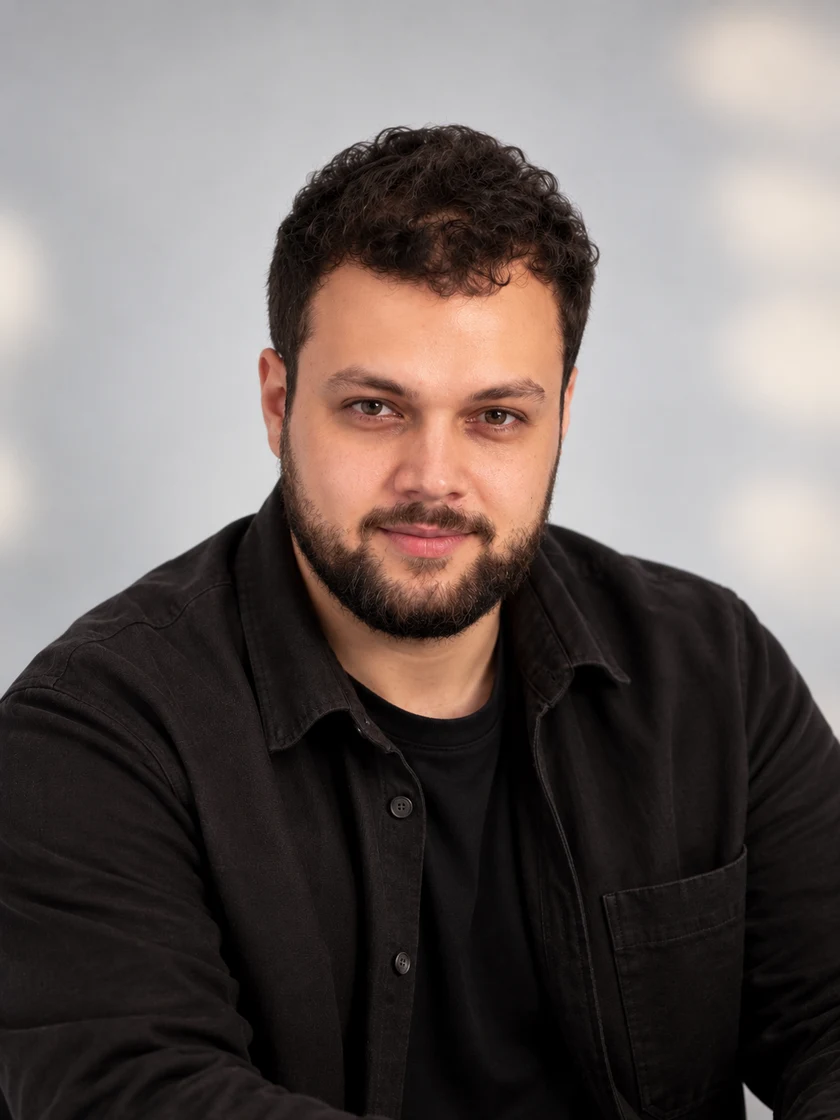
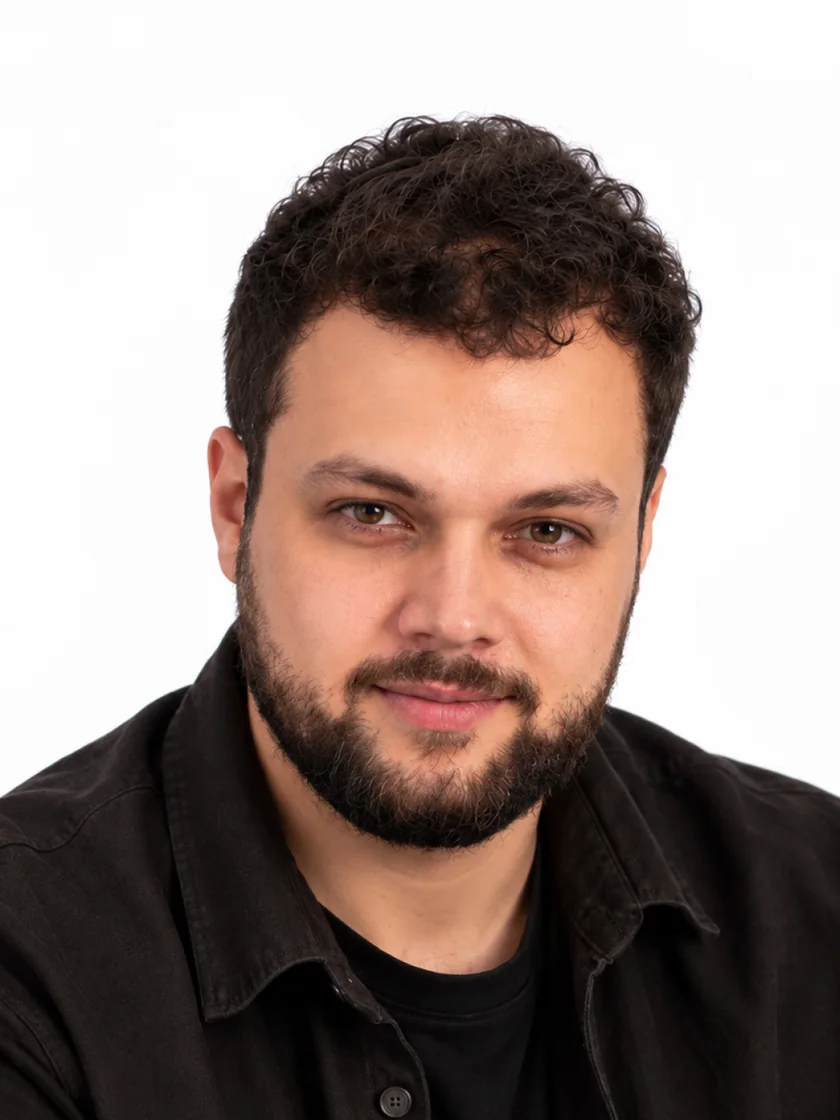
Команда: новые фото Андрея и Арсена, Андрей снова первый
Claude-Session: https://claude.ai/code/session_012G6QYp5oroZkUjnGBCFSdm

diff --git a/index.html b/index.html
@@ -192,9 +192,9 @@
     </div>
     <!-- Фото: 3:4, например 600×800, webp. Положите в assets/img/team/ и замените <span>А</span> на <img src="assets/img/team/anna.webp" width="600" height="800" alt="" loading="lazy">, а у блока уберите класс member__photo--empty -->
     <ul class="crew__track" id="crew-track">
-        <li class="member">
-          <div class="member__photo"><img src="assets/img/team/arsen.webp?v=3" width="840" height="1120" alt="Арсен" loading="lazy"></div>
-          <div class="member__body"><b>Арсен</b><p>Безопасность наших сайтов</p></div>
+        <li class="member member--lead">
+          <div class="member__photo"><img src="assets/img/team/andrei.webp?v=4" width="840" height="1120" alt="Андрей Стельмах" loading="lazy"></div>
+          <div class="member__body"><b>Андрей</b><p>Стратегия проектов и настройка рекламы</p><span class="member__tag">Ведёт ваш проект</span></div>
         </li>
         <li class="member">
           <div class="member__photo"><img src="assets/img/team/anna.webp" width="840" height="1120" alt="Анна" loading="lazy"></div>
@@ -208,9 +208,9 @@
           <div class="member__photo"><img src="assets/img/team/evgeniy.webp" width="840" height="1120" alt="Евгений" loading="lazy"></div>
           <div class="member__body"><b>Евгений</b><p>Посадочные страницы под рекламу и корпоративные сайты</p></div>
         </li>
-        <li class="member member--lead">
-          <div class="member__photo"><img src="assets/img/team/andrei.webp?v=3" width="840" height="1120" alt="Андрей Стельмах" loading="lazy"></div>
-          <div class="member__body"><b>Андрей</b><p>Стратегия проектов и настройка рекламы</p><span class="member__tag">Ведёт ваш проект</span></div>
+        <li class="member">
+          <div class="member__photo"><img src="assets/img/team/arsen.webp?v=4" width="840" height="1120" alt="Арсен" loading="lazy"></div>
+          <div class="member__body"><b>Арсен</b><p>Безопасность наших сайтов</p></div>
         </li>
         <li class="member">
           <div class="member__photo"><img src="assets/img/team/irina.webp" width="840" height="1120" alt="Ирина" loading="lazy"></div>

diff --git a/light.html b/light.html
@@ -192,9 +192,9 @@
     </div>
     <!-- Фото: 3:4, например 600×800, webp. Положите в assets/img/team/ и замените <span>А</span> на <img src="assets/img/team/anna.webp" width="600" height="800" alt="" loading="lazy">, а у блока уберите класс member__photo--empty -->
     <ul class="crew__track" id="crew-track">
-        <li class="member">
-          <div class="member__photo"><img src="assets/img/team/arsen.webp?v=3" width="840" height="1120" alt="Арсен" loading="lazy"></div>
-          <div class="member__body"><b>Арсен</b><p>Безопасность наших сайтов</p></div>
+        <li class="member member--lead">
+          <div class="member__photo"><img src="assets/img/team/andrei.webp?v=4" width="840" height="1120" alt="Андрей Стельмах" loading="lazy"></div>
+          <div class="member__body"><b>Андрей</b><p>Стратегия проектов и настройка рекламы</p><span class="member__tag">Ведёт ваш проект</span></div>
         </li>
         <li class="member">
           <div class="member__photo"><img src="assets/img/team/anna.webp" width="840" height="1120" alt="Анна" loading="lazy"></div>
@@ -208,9 +208,9 @@
           <div class="member__photo"><img src="assets/img/team/evgeniy.webp" width="840" height="1120" alt="Евгений" loading="lazy"></div>
           <div class="member__body"><b>Евгений</b><p>Посадочные страницы под рекламу и корпоративные сайты</p></div>
         </li>
-        <li class="member member--lead">
-          <div class="member__photo"><img src="assets/img/team/andrei.webp?v=3" width="840" height="1120" alt="Андрей Стельмах" loading="lazy"></div>
-          <div class="member__body"><b>Андрей</b><p>Стратегия проектов и настройка рекламы</p><span class="member__tag">Ведёт ваш проект</span></div>
+        <li class="member">
+          <div class="member__photo"><img src="assets/img/team/arsen.webp?v=4" width="840" height="1120" alt="Арсен" loading="lazy"></div>
+          <div class="member__body"><b>Арсен</b><p>Безопасность наших сайтов</p></div>
         </li>
         <li class="member">
           <div class="member__photo"><img src="assets/img/team/irina.webp" width="840" height="1120" alt="Ирина" loading="lazy"></div>
